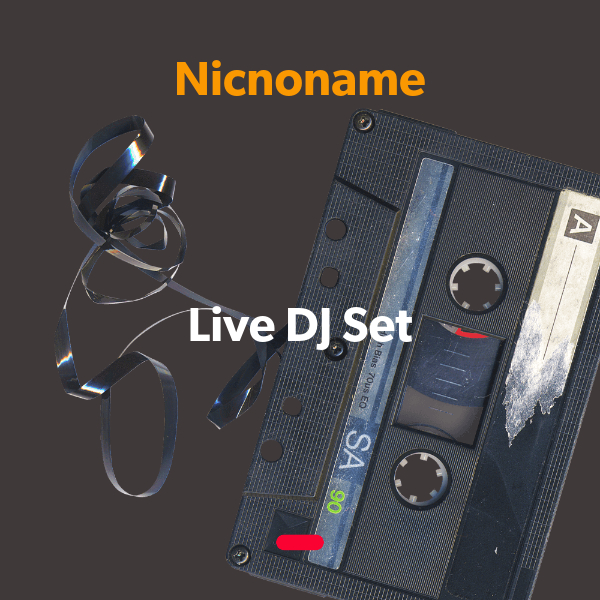
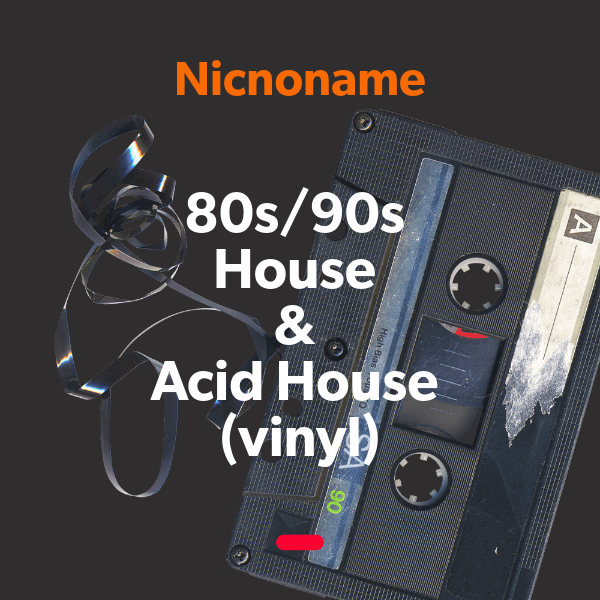
update

diff --git a/_includes/archive.md b/_includes/archive.md
@@ -11,9 +11,9 @@
 #### 5pm Broc Olli <a href="https://open.spotify.com/playlist/7s00der45bbzp5gfjhfHtY" target="_blank" title="Go to playlist"> <i class="fab fa-spotify fa-inverse"></i></a>
 ![alt-text](assets/owner/images/20200417-5pm.jpeg)
 
-#### 8pm Nic
+#### 8pm Nic <a href="https://www.mixcloud.com/Glastonauts_Live/nicnoname-80s90s-house-acid-house-dj-set/
+" target="_blank" title="Go to recording"> <i class="fab fa-mixcloud fa-inverse"></i></a>
 ![alt-text](assets/owner/images/20200417-8pm.jpeg)
-
 
 
 ### Thursday April 16th
